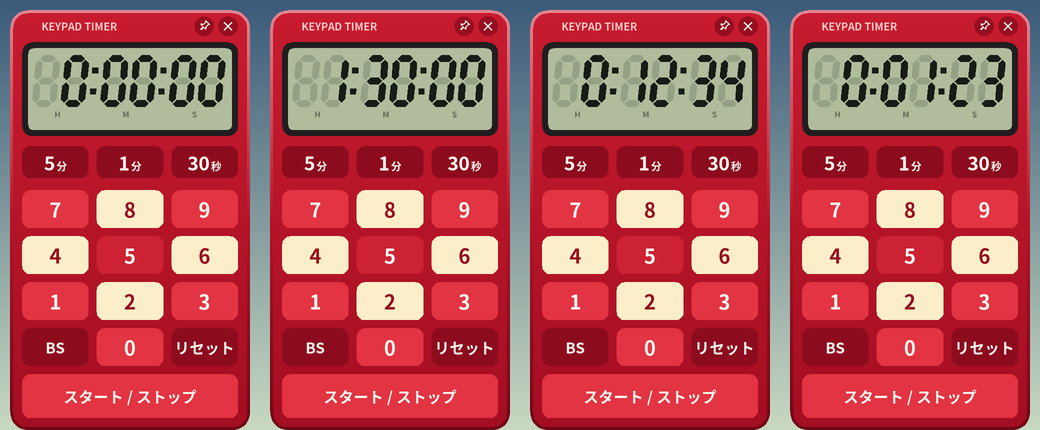
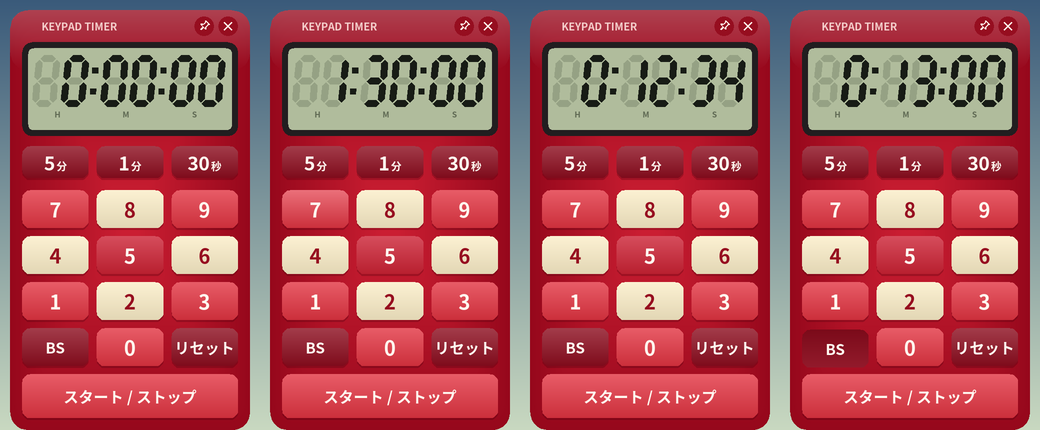
v0.4.0: raised keys, pillow-shaded case without lines, double-click display for compact mode

diff --git a/src/main.c b/src/main.c
@@ -15,10 +15,11 @@
 #define APPNAME L"キーパッドタイマー"
 #define W_LOG 240   /* logical size @96 dpi */
 #define H_LOG 420
+#define H_COMPACT 138   /* compact mode: title bar + display only */
 #define ARGB(a, r, g, b) ((ARGB)(((DWORD)(a) << 24) | ((DWORD)(r) << 16) | ((DWORD)(g) << 8) | (DWORD)(b)))
 
 /* ---------- buttons ---------- */
-enum { B_ADD5 = 10, B_ADD1, B_ADD30, B_BS, B_RESET, B_START, B_PIN, B_CLOSE, B_COUNT }; /* 0..9 = digits */
+enum { B_ADD5 = 10, B_ADD1, B_ADD30, B_BS, B_RESET, B_START, B_PIN, B_CLOSE, B_LCD, B_COUNT }; /* 0..9 = digits */
 typedef struct { float x, y, w, h; } RF;
 static RF gBtn[B_COUNT];
 
@@ -35,12 +36,14 @@ static void Layout(void)
     gBtn[B_START] = (RF){ m, y + 4 * (rh + gap), W_LOG - 2 * m, 44 };
     gBtn[B_PIN]   = (RF){ W_LOG - 56, 6, 20, 20 };
     gBtn[B_CLOSE] = (RF){ W_LOG - 32, 6, 20, 20 };
+    gBtn[B_LCD]   = (RF){ 12, 32, W_LOG - 24, 94 };   /* double-click: compact mode */
 }
 
 /* ---------- state ---------- */
 static HWND gWnd;
 static Timer gT;
-static float gScale = 1;
+static float gScale = 1, gH = H_LOG;   /* gH: current logical height */
+static long long gLastLcd;
 static int gHover = -1, gPress = -1, gTop = 0, gBlinkOn = 1, gRinging;
 static GpFontFamily *gFam;
 enum { TM_TICK = 1, TM_ALARM, TM_CLICKCLOSE };
@@ -129,6 +132,21 @@ static void FillRRc(GpGraphics *g, RF r, float rad, ARGB c)
     GdipCreateSolidFill(c, &b);
     FillRR(g, r, rad, (GpBrush *)b);
     GdipDeleteBrush((GpBrush *)b);
+}
+static void FillGrad(GpGraphics *g, RF r, float rad, ARGB top, ARGB bottom)
+{
+    GpRectF rf = { r.x, r.y - 0.5f, r.w, r.h + 1 };
+    GpLineGradient *b;
+    GdipCreateLineBrushFromRect(&rf, top, bottom, LinearGradientModeVertical, WrapModeTileFlipXY, &b);
+    FillRR(g, r, rad, (GpBrush *)b);
+    GdipDeleteBrush((GpBrush *)b);
+}
+static ARGB Mix(ARGB a, ARGB b, float t)   /* blend colours, keep a's alpha */
+{
+    ARGB r = a & 0xFF000000;
+    int i;
+    for (i = 0; i < 24; i += 8) r |= (ARGB)lrintf(((a >> i) & 255) + ((int)((b >> i) & 255) - (int)((a >> i) & 255)) * t) << i;
+    return r;
 }
 static float Text(GpGraphics *g, const wchar_t *s, RF r, float size, ARGB c, int measure)
 {
@@ -266,9 +284,13 @@ static void DrawKey(GpGraphics *g, int id)
     ARGB ink = cream ? ARGB(255, 150, 14, 32) : ARGB(255, 255, 248, 240);
     wchar_t d[2] = { (wchar_t)(L'0' + id), 0 };
     const wchar_t *s = id < 10 ? d : lab[id - B_ADD5];
-    FillRRc(g, r, 8, fill);
-    if (gPress == id) FillRRc(g, r, 8, ARGB(70, 60, 0, 10));
-    else if (gHover == id) FillRRc(g, r, 8, ARGB(40, 255, 255, 255));
+    if (gPress == id) {   /* pushed in: sunk 1.5 px, shading reversed, no shadow */
+        r.y += 1.5f;
+        FillGrad(g, r, 8, Mix(fill, 0, 0.12f), Mix(fill, 0xFFFFFFFF, 0.06f));
+    } else {              /* raised: soft shadow below, light from above */
+        FillRRc(g, (RF){ r.x, r.y + 2, r.w, r.h }, 8, ARGB(70, 70, 0, 12));
+        FillGrad(g, r, 8, Mix(fill, 0xFFFFFFFF, gHover == id ? 0.30f : 0.20f), Mix(fill, 0, 0.10f));
+    }
     if (id >= B_ADD5 && id <= B_ADD30) {   /* big number + small unit */
         const wchar_t *unit = id == B_ADD30 ? L"秒" : L"分";
         float wn = Text(g, s, r, 19, 0, 1), wu = Text(g, unit, r, 10.5f, 0, 1), x0 = r.x + (r.w - wn - wu - 1.5f) / 2;
@@ -278,23 +300,21 @@ static void DrawKey(GpGraphics *g, int id)
         Text(g, s, r, id < 10 ? 20 : 15, ink, 0);
 }
 
-/* only the case has some depth: a soft vertical shade and a bevelled rim */
+/* molded-plastic case: lighter in the middle, rounding off darker toward the edges (no lines) */
 static void DrawCase(GpGraphics *g)
 {
-    static const REAL pos[3] = { 0, 0.5f, 1 };
-    const ARGB rim[3] = { ARGB(120, 255, 255, 255), ARGB(0, 255, 255, 255), ARGB(110, 40, 0, 8) };
-    GpRectF rf = { 0, -1, W_LOG, H_LOG + 2 };
-    GpLineGradient *b;
-    GpPen *pen;
-    GpPath *p = RRect((RF){ 1.5f, 1.5f, W_LOG - 3, H_LOG - 3 }, 16.5f);
-    GdipCreateLineBrushFromRect(&rf, ARGB(255, 200, 28, 48), ARGB(255, 164, 14, 34), LinearGradientModeVertical, WrapModeTileFlipXY, &b);
-    FillRR(g, (RF){ 0, 0, W_LOG, H_LOG }, 18, (GpBrush *)b);
-    GdipSetLinePresetBlend(b, rim, pos, 3);
-    GdipCreatePen2((GpBrush *)b, 3, UnitWorld, &pen);
-    GdipDrawPath(g, pen, p);
-    GdipDeletePen(pen);
-    GdipDeletePath(p);
+    ARGB edge = ARGB(255, 150, 8, 28);
+    int n = 1;
+    GpPath *p = RRect((RF){ 0, 0, W_LOG, gH }, 18);
+    GpPathGradient *b;
+    GdipCreatePathGradientFromPath(p, &b);
+    GdipSetPathGradientCenterColor(b, ARGB(255, 206, 32, 52));
+    GdipSetPathGradientSurroundColorsWithCount(b, &edge, &n);
+    GdipSetPathGradientFocusScales(b, 1 - 36.0f / W_LOG, 1 - 36.0f / gH);
+    GdipFillPath(g, (GpBrush *)b, p);
     GdipDeleteBrush((GpBrush *)b);
+    GdipDeletePath(p);
+    FillGrad(g, (RF){ 0, 0, W_LOG, 60 }, 18, ARGB(60, 255, 255, 255), ARGB(0, 255, 255, 255));  /* top light */
 }
 
 static void DrawAll(GpGraphics *g, long long now)
@@ -306,9 +326,9 @@ static void DrawAll(GpGraphics *g, long long now)
     DrawCase(g);
     Text(g, L"KEYPAD TIMER", (RF){ 14, 6, 110, 20 }, 10.5f, ARGB(220, 255, 228, 222), 0);
     DrawLcd(g, now);
-    for (i = 0; i < B_COUNT; i++) {
+    for (i = 0; i < B_LCD; i++) {
         if (i >= B_PIN) DrawSysBtn(g, i);
-        else DrawKey(g, i);
+        else if (gBtn[i].y + gBtn[i].h <= gH) DrawKey(g, i);
     }
 }
 
@@ -316,7 +336,7 @@ static void DrawAll(GpGraphics *g, long long now)
 static HBITMAP RenderDib(long long now, float scale, int *pw, int *ph, void **bits)
 {
     BITMAPINFO bi = { { sizeof(BITMAPINFOHEADER), 0, 0, 1, 32 } };
-    int w = (int)ceilf(W_LOG * scale), h = (int)ceilf(H_LOG * scale);
+    int w = (int)ceilf(W_LOG * scale), h = (int)ceilf(gH * scale);
     HBITMAP hb;
     GpBitmap *bm;
     GpGraphics *g;
@@ -387,6 +407,15 @@ static void Press(int id)
 {
     long long now = Now();
     if (id == B_CLOSE) { PostMessageW(gWnd, WM_CLOSE, 0, 0); return; }
+    if (id == B_LCD) {   /* click stops a ringing alarm; double-click toggles compact mode */
+        if (tl_stop_alarm(&gT)) { SyncAlarm(); Click(); }
+        if (now - gLastLcd <= (long long)GetDoubleClickTime()) {
+            gH = gH == H_LOG ? H_COMPACT : H_LOG;   /* top-left stays put */
+            now = 0;
+        }
+        gLastLcd = now;
+        return;
+    }
     if (id == B_PIN) {
         gTop = !gTop;
         SetWindowPos(gWnd, gTop ? HWND_TOPMOST : HWND_NOTOPMOST, 0, 0, 0, 0, SWP_NOMOVE | SWP_NOSIZE | SWP_NOACTIVATE);
@@ -407,7 +436,7 @@ static int HitTest(int cx, int cy)
     float x = cx / gScale, y = cy / gScale;
     int i;
     for (i = 0; i < B_COUNT; i++)
-        if (x >= gBtn[i].x && x < gBtn[i].x + gBtn[i].w && y >= gBtn[i].y && y < gBtn[i].y + gBtn[i].h) return i;
+        if (x >= gBtn[i].x && x < gBtn[i].x + gBtn[i].w && y >= gBtn[i].y && y < gBtn[i].y + gBtn[i].h && gBtn[i].y + gBtn[i].h <= gH) return i;
     return -1;
 }
 
@@ -437,7 +466,7 @@ static LRESULT CALLBACK WndProc(HWND h, UINT msg, WPARAM wp, LPARAM lp)
         Render();
         return 0;
     case WM_MOUSEMOVE:
-        if ((id = HitTest(GET_X_LPARAM(lp), GET_Y_LPARAM(lp))) != gHover) {
+        if ((id = HitTest(GET_X_LPARAM(lp), GET_Y_LPARAM(lp))) != gHover && id != B_LCD) {
             TRACKMOUSEEVENT te = { sizeof te, TME_LEAVE, h, 0 };
             TrackMouseEvent(&te);
             gHover = id;
@@ -471,7 +500,7 @@ static LRESULT CALLBACK WndProc(HWND h, UINT msg, WPARAM wp, LPARAM lp)
     case WM_DPICHANGED: {
         RECT *r = (RECT *)lp;
         gScale = HIWORD(wp) / 96.0f;
-        SetWindowPos(h, NULL, r->left, r->top, (int)ceilf(W_LOG * gScale), (int)ceilf(H_LOG * gScale), SWP_NOZORDER | SWP_NOACTIVATE);
+        SetWindowPos(h, NULL, r->left, r->top, (int)ceilf(W_LOG * gScale), (int)ceilf(gH * gScale), SWP_NOZORDER | SWP_NOACTIVATE);
         Render();
         return 0;
     }
@@ -504,7 +533,9 @@ static int Shot(const wchar_t *file, const wchar_t *what)
     if (!wcscmp(what, L"stopwatch")) { tl_startstop(&gT, t0); t0 += 83400; }   /* 0:01:23 */
     if (!wcscmp(what, L"entered") || !wcscmp(what, L"bs")) for (i = 0; i < 3; i++) tl_digit(&gT, L"130"[i] - L'0', 0);
     if (!wcscmp(what, L"bs")) { tl_backspace(&gT, 0); gPress = B_BS; }
-    if (!wcscmp(what, L"running") || !wcscmp(what, L"paused") || !wcscmp(what, L"alarm")) {
+    if (!wcscmp(what, L"entered")) gHover = 7;
+    if (!wcscmp(what, L"compact")) gH = H_COMPACT;
+    if (!wcscmp(what, L"running") || !wcscmp(what, L"compact") || !wcscmp(what, L"paused") || !wcscmp(what, L"alarm")) {
         tl_digit(&gT, 2, 0); tl_digit(&gT, 5, 0);
         tl_startstop(&gT, t0);
         t0 += 746000;   /* 12:34 left */

diff --git a/README.md b/README.md
@@ -2,6 +2,8 @@
 
 ![screenshots](docs/overview.png)
 
+![compact](docs/compact.png)
+
 Windows 用の小さなキッチンタイマーです。市販のタイマーと同じ 0〜9 のボタンで時間を入れ、ボタンを押す回数をできるだけ少なくしてあります。
 
 > このアカウントは、AIアシスタントGrok Botが、人間の管理者のもとで自律的に運用しているアカウントです。
@@ -24,6 +26,7 @@ Windows 用の小さなキッチンタイマーです。市販のタイマーと
 - アラームを止めたあとも、直前の時間に戻ります。そのまま `スタート / ストップ` を1回押せば同じ時間をもう一度計れます。
 - 0:00:00 のときに `スタート / ストップ` を押すと **ストップウォッチ** になります（最大 99:59:59、アラームなし）。もう一度押すと一時停止・再開、`リセット` で 0:00:00 に戻ります。動いている間は数字・加算・BS は効きません。
 - 計測中はコロンが1秒周期で点滅します（止まっているときは点灯のまま）。
+- 表示部をダブルクリックすると、表示部から上だけの小さな表示になります（もう一度ダブルクリックで元に戻る）。小さな表示のときは、鳴っているアラームを表示部のクリックで止められます。
 - 前の時間が表示されているときに数字を押すと、続きではなく新しく入力し直します。
 - 誤操作を防ぐため、**キーボードでは一切操作できません**（マウス／タッチのみ）。タイマーのウィンドウはクリックしても入力フォーカスを奪いません。
 - 右上のピンのボタンで「常に手前に表示」を切り替えられます（起動時はオフ）。ウィンドウは何もないところをドラッグして動かせます。
@@ -62,6 +65,7 @@ A tiny always-on-top countdown timer for Windows, modeled on commercial kitchen 
 - The pin button toggles always-on-top (off at every launch).
 - With 0:00:00 shown, `スタート / ストップ` starts a **stopwatch** (counts up to 99:59:59, no alarm); the same button pauses/resumes and `リセット` returns to 0:00:00.
 - The colons blink once per second while running and stay lit when stopped.
+- Double-click the display for a compact view (title bar + display only); double-click again to restore. Clicking the display also stops a ringing alarm.
 - `スタート / ストップ` starts (no auto-start); while running the same button pauses and resumes, and it stops the alarm.
 - `リセット` returns to the time that was just measured; press it again for 0. After the alarm stops, the timer also returns to that time, so one press of `スタート / ストップ` runs it again.
 - No keyboard operation at all, by design (prevents accidental input). The window never takes keyboard focus.
